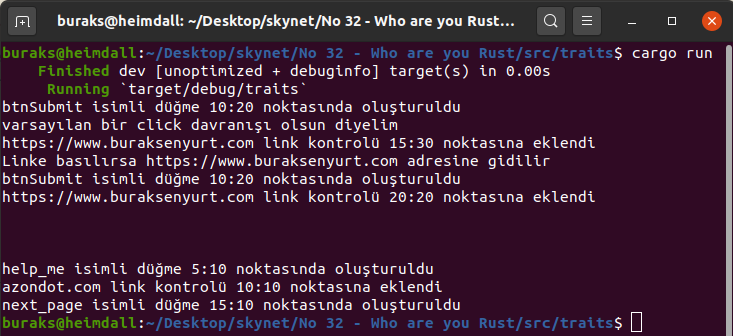
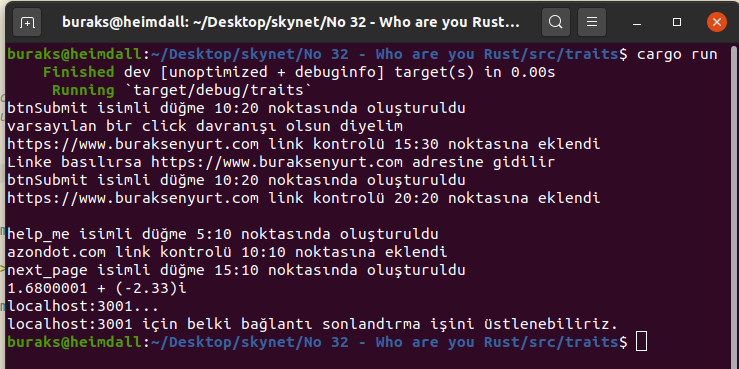
operator overloading konusuna bakıldı

diff --git a/No 32 - Who are you Rust/src/traits/src/main.rs b/No 32 - Who are you Rust/src/traits/src/main.rs
@@ -7,6 +7,8 @@
     Rust standart kütüphanesi de birçok trait tanımı içerir. Add, Copy, Clone, Eq vb
 */
 
+use std::ops; // + operatörünü tekrardan programlamak için eklendi (#4ncü örnek)
+
 /*
     #1
 
@@ -71,7 +73,7 @@ fn main() {
         Bu nedenle on_load fonksiyonuna odaklanalım. Parametre olarak Action trait'ini uygulayan tipleri kabul etmekte.
         Dolayısıyla Action trait'ini implement eden struct değişkenlerini aynı fonksiyonu içinde ele almamız mümkün.
     */
-    on_load(&submit, 10, 20); 
+    on_load(&submit, 10, 20);
     on_load(&go_home, 20, 20);
 
     /*
@@ -80,7 +82,7 @@ fn main() {
         Lakin trait'lerin boyutu yoktur ve bu nedenle bellekte ne kadar yer tutacakları bilinemez. Dolayısıyla düşündüğümüzü yapmak biraz beyin yakar.
     */
 
-    println!("\n\n");
+    println!("");
 
     let main_page = Hyperlink {
         url: String::from("azondot.com"),
@@ -95,6 +97,29 @@ fn main() {
         }),
     ]; // Box struct'ı heap'teki yer ayırımları için bir referans sunar.
     prepare(controls);
+
+    /*
+        #4 Operator Overloading
+
+        C# taki gibi Rust dilinde de bilinen operatörleri yeniden programlayabiliriz.
+        Örneğin kompleks sayıları temsil eden bir struct için + operatörünü yeniden programlamak istediğimizi düşünelim.
+        + operatörünün karşılığı olan trait'i (Add) bu struct için yeniden programlamak yeterli olacaktır.
+    */
+    let cx1 = Complex { x: 1.23, y: 2.56 };
+    let cx2 = Complex { x: 0.45, y: -4.89 };
+    let cx3 = cx1 + cx2;
+    println!("{} + ({})i", cx3.x, cx3.y);
+
+    /*
+        #5 Operator Overloading(drop)
+
+        Bu arada değişkenlerin scope dışına çıktıları zaman devreye giren ve bellek boşaltma işini üstlenen drop'da bir trait'tir ve yeniden programlanabilir.
+    */
+    let london = MongoConnection {
+        server: String::from("localhost"),
+        port: String::from("3001"),
+    };
+    println!("{}:{}...", london.server, london.port); // london değişkenini kullandık ve scope dışında kaldı. Yazdığımız drop metodu devreye girecek
 }
 
 /*
@@ -122,3 +147,40 @@ fn on_load<T: Action>(control: &T, x: i32, y: i32) {
 // fn on_load(control: impl Action, x: i32, y: i32) {
 //     control.initialize(x, y);
 // }
+
+struct Complex {
+    x: f32,
+    y: f32,
+}
+
+// Complex struct'ı için Add operatörünü yeniden programlıyoruz
+impl ops::Add for Complex {
+    type Output = Self; // Kendi türünü döndüreceğini söylüyoruz ki bu Complex tip oluyor
+
+    // add operasyonunu yeniden tanımlıyoruz
+    fn add(self, c2: Complex) -> Self {
+        Self {
+            x: self.x + c2.x,
+            y: self.y + c2.y,
+        }
+    }
+}
+
+/*
+    #5 için kullanılan kobay struct ve drop uyarlaması.
+    Mesela oluşturduğumuz MongoConnection nesnesi scope dışına çıktığında yapılmasını istediğimiz özel bir şeyler varsa,
+    drop trait'inin yeniden programlayarak gerçekleştirebiliriz.
+*/
+struct MongoConnection {
+    server: String,
+    port: String,
+}
+
+impl Drop for MongoConnection {
+    fn drop(&mut self) {
+        println!(
+            "{}:{} için belki bağlantı sonlandırma işini üstlenebiliriz.",
+            self.server, self.port
+        );
+    }
+}

diff --git a/No 32 - Who are you Rust/README.md b/No 32 - Who are you Rust/README.md
@@ -98,6 +98,7 @@ Dilin genel özellikleri ile ilgili dikkatimi çeken birkaç anahtar noktayı ke
     - trait ile struct'lar için ortak davranış sözleşmeleri bildirebiliriz _(tam olarak interface değil, tam olarak abstract sınıf da değil. Değişik bir şey)_,
     - trait'ler boyutsuzdu bu nedenle bir vector dizisi yapılmak istendiğinde box yapısına başvurmak gerekir,
     - trait'ler fonksiyonlara parametre olarak geçirilebilir ve hatta döndürülebilir,
+    - built-in trait'leri yeniden programlayabiliriz _(operator overloading)_,
 
 ## Çalışma Zamanı
 
@@ -176,7 +177,7 @@ _errorhandling örneğinden Result<T,E> ile olayı kontrol altında tutmaya çal
 
 ![Screenshot_07.png](./assets/Screenshot_07.png)
 
-_traits örneğinde bir ekran görüntüsü_
+_traits örneğinden bir ekran görüntüsü_
 
 ![Screenshot_08.png](./assets/Screenshot_08.png)
 
@@ -208,3 +209,4 @@ _traits örneğinde bir ekran görüntüsü_
 - mercury isimli kütüphaneyi başka bir rust uygulamasında kullanabilir misiniz? Nasıl?
 - Bir String içeriğini tersten yazdıracak fonksiyonu geliştiriniz? _(rev kullanmak yasak)_
 - error_handling örneğinde 69ncu satırda başlayan ifadede i32'ye dönüşemeyen vector değerlerini hariç tuttuk. Geçersiz olan değerleri de toplayıp ekrana yazdırabilir misiniz? _(ipucu : partition fonksiyonu)_
+- İki kompleks sayının eşit olup olmadığını kontrol eden trait'leri geliştiriniz
